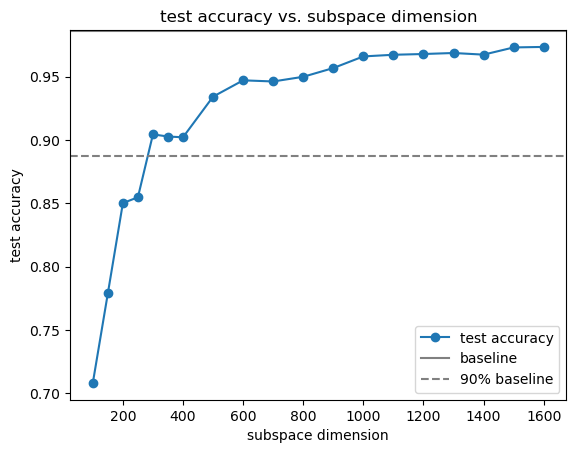
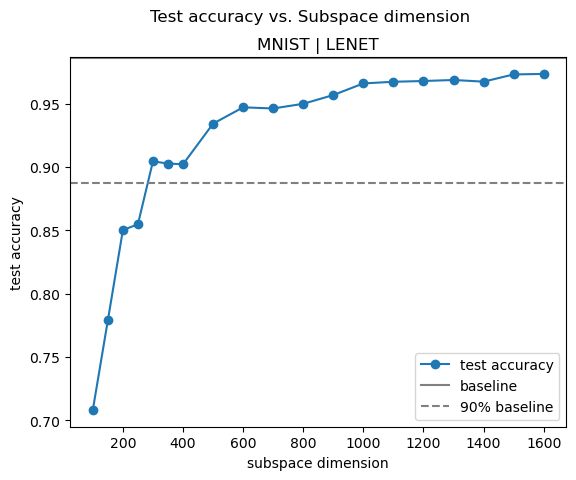
add last plots

diff --git a/make_plot.py b/make_plot.py
@@ -1,9 +1,25 @@
-import csv
-import re
-
+import argparse
+import sys 
 import matplotlib.pyplot as plt
 import pandas as pd
 
+
+def parse_args():
+    '''
+    Parse the terminal arguments.
+    '''
+    parser = argparse.ArgumentParser(description='Choose the plot.')
+    parser.add_argument('--test', type=str, default=None,
+                        help='Type of plot: "subspace" for subspace dim vs test accuracy; "small-nets" for subspace networks vs small networks accuracy; "time" for forward+backword pass time vs subspace dimension; "all" for all. (default: all)')
+   
+    
+    return parser.parse_args()
+
+def read_input(args):
+    """
+    Read the argparse arguments
+    """
+    return args.test
 
 def get_metadata_from(filename):
     """
@@ -139,7 +155,7 @@ def proj_time(filename, metadata):
     plt.savefig(outfile,  bbox_inches='tight')
 
 
-def subspace_dim_vs_accuracy(filename, outfile, baseline):
+def subspace_dim_vs_accuracy(filename, outfile, baseline, dataset, network):
     """
     Plot the test accuracy for each subspace dimension wrt the baseline.
     """
@@ -166,7 +182,9 @@ def subspace_dim_vs_accuracy(filename, outfile, baseline):
     plt.legend(['test accuracy', 'baseline', '90% baseline'])
 
     # Set plot title and axis labels
-    plt.title('test accuracy vs. subspace dimension')
+    # plt.title('test accuracy vs. subspace dimension')
+    plt.suptitle("Test accuracy vs. Subspace dimension")
+    plt.title(f"{dataset.upper()} | {network.upper()}")
     plt.xlabel('subspace dimension')
     plt.ylabel('test accuracy')
 
@@ -206,7 +224,10 @@ def subspace_vs_small_networks_accuracy(subspace_file, small_net_file, subspace_
     plt.legend(['subspace network', 'small networks'])
 
     # Set plot title and axis labels
-    plt.title('subspace vs. small network accuracy')
+    plt.suptitle('Subspace vs. Small networks accuracy')
+    plt.title(f"{subspace_metadata['dataset'].upper()} | {subspace_metadata['network_type'].upper()}")
+    plt.xlabel('num trainable parameters')
+    plt.ylabel('test accuracy')
 
     # Save the plot as a PNG file
     plt.savefig(outfile, bbox_inches='tight')
@@ -227,7 +248,8 @@ def main(test):
     #     subspace dimension vs. test accuracy
     # ==============================================
     if test == "subspace" or test == "all":
-        for dataset in ['mnist', 'cifar10' 'mnist_shuffled_pixels', 'mnist_shuffled_labels', 'mnist_shuffled_pixels_shuffled_labels', 'cifar10_shuffled_pixels', 'cifar10_shuffled_labels', 'cifar10_shuffled_pixels_shuffled_labels']:
+        # for dataset in ['mnist', 'cifar10' 'mnist_shuffled_pixels', 'mnist_shuffled_labels', 'mnist_shuffled_pixels_shuffled_labels', 'cifar10_shuffled_pixels', 'cifar10_shuffled_labels', 'cifar10_shuffled_pixels_shuffled_labels']:
+        for dataset in ['mnist_shuffled_pixels']:
             for network in ['fc', 'lenet', 'resnet20']:
                 if network == 'fc':  # Fully connected network
                     for depth in [1,2,3,4,5]:
@@ -236,9 +258,10 @@ def main(test):
                                 filename=f"results/subspace/subspace_{dataset}_{network}_depth_{depth}_width_{width}_epochs_10_lr_0.003.csv"
                                 outfile=f"plots/subspace/subspace_{dataset}_{network}_depth_{depth}_width_{width}_epochs_10_lr_0.003.png"
                                 baseline=get_baseline(f"results/baseline/baseline_{dataset}_{network}_epochs_10_lr_0.003.csv", network, depth=depth, width=width)
-                                subspace_dim_vs_accuracy(filename, outfile, baseline)
+                                subspace_dim_vs_accuracy(filename, outfile, baseline, dataset, network)
                             except:
-                                print(f"Could not find file {filename} or {baseline}!")
+                                # print(f"Could not find file {filename} or {baseline}!")
+                                continue
 
                 elif network == 'lenet':  # LeNet
                     for n_feature in range(1, 21, 1):
@@ -246,18 +269,20 @@ def main(test):
                             filename=f"results/subspace/subspace_{dataset}_{network}_nfeatures_{n_feature}_epochs_10_lr_0.003.csv"
                             outfile=f"plots/subspace/subspace_{dataset}_{network}_nfeatures_{n_feature}_epochs_10_lr_0.003.png"
                             baseline=get_baseline(f"results/baseline/baseline_{dataset}_{network}_epochs_10_lr_0.003.csv", network, n_feature=n_feature)
-                            subspace_dim_vs_accuracy(filename, outfile, baseline)
+                            subspace_dim_vs_accuracy(filename, outfile, baseline, dataset, network)
                         except:
-                            print(f"Could not find file {filename} or {baseline}!")
+                            # print(f"Could not find file {get_metadata_from(filename)}!")
+                            continue
 
                 else:  # ResNet20
                     try:
                         filename=f"results/subspace/subspace_{dataset}_{network}_nfeatures_16_epochs_10_lr_0.003.csv"
                         outfile=f"plots/subspace/subspace_{dataset}_{network}_nfeatures_16_epochs_10_lr_0.003.png"
                         baseline=get_baseline(f"results/baseline/baseline_{dataset}_{network}_epochs_10_lr_0.003.csv", network, n_feature=16)
-                        subspace_dim_vs_accuracy(filename, outfile, baseline)
+                        subspace_dim_vs_accuracy(filename, outfile, baseline, dataset, network)
                     except:
-                        print(f"Could not find file {filename} or {baseline}!")
+                        # print(f"Could not find file {filename} or {baseline}!")
+                        continue
 
     # ==============================================
     #     subspace networks vs. small networks
@@ -275,4 +300,10 @@ def main(test):
 
 
 if __name__ == '__main__':
-    main("small-nets")
+
+    # Read input
+    args = parse_args()
+    test = read_input(args)
+    
+    # Plot
+    main(test)

diff --git a/main.py b/main.py
@@ -1,6 +1,4 @@
 import argparse
-import time
-from datetime import timedelta
 
 import torch
 from pytorch_lightning import Trainer, seed_everything
